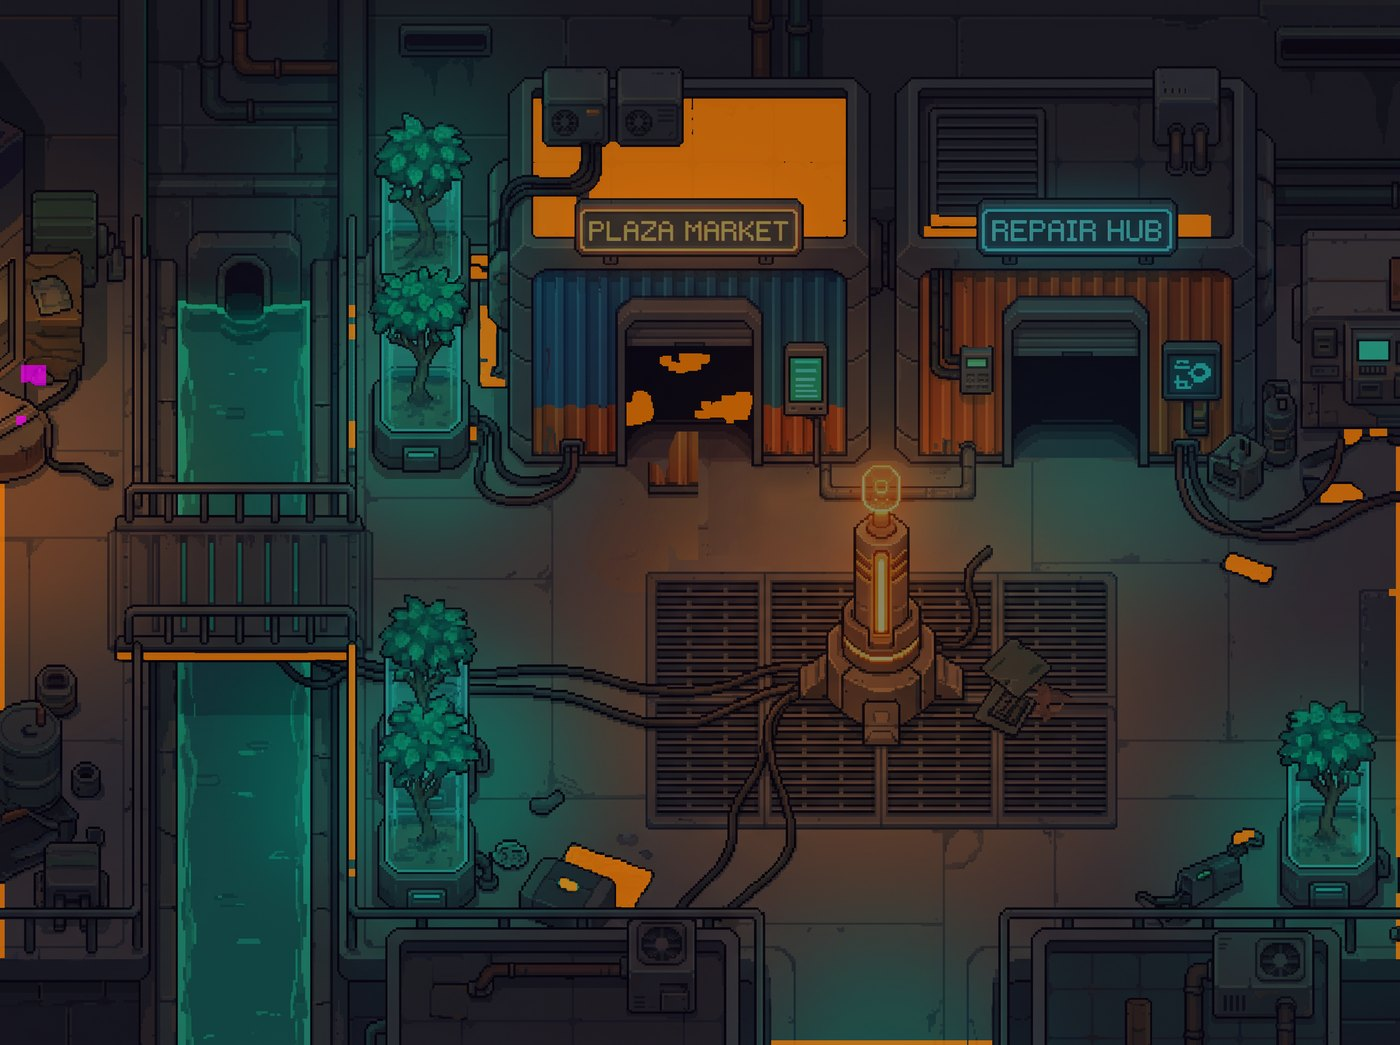
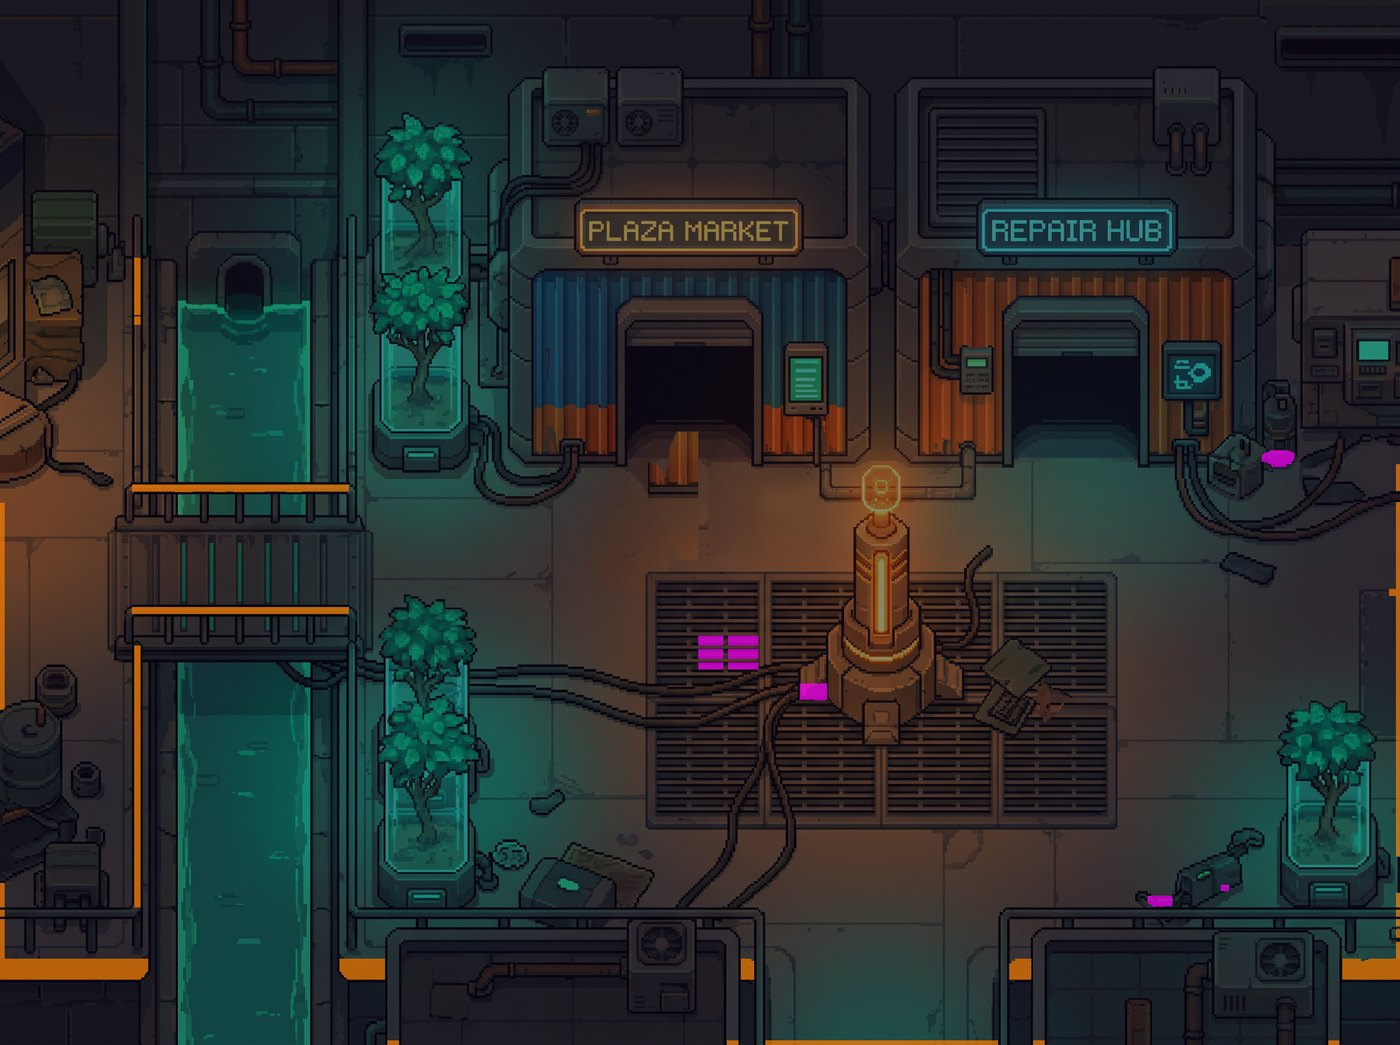
align: v5 rebuild anchorroom with v4 footprints + overhead subtraction
Re-ran segment_room consuming both v4 geometric footprints and the new
overhead.png (7,893 suspended px subtracted from blocked). Defects
dropped from 5.1% to 1.24% — best ever. false-walk 4.3%->0.18%,
missed-walk 0.77%->1.06%. All exits BFS-reachable, plateHash verified,
npm test 27/27.

diff --git a/tools/art-pipeline/STATUS.md b/tools/art-pipeline/STATUS.md
@@ -865,28 +865,24 @@ Consumed v4 no-grid geometric footprints (method v4-geometric-nogrid, 3.2% cover
 promoted by v4-footprints agent) and re-ran segment_room.py for anchorroom.
 
 **Before/after (anchorroom):**
-| Metric           | v2 compose (before) | v5 compose (after) |
-|------------------|--------------------:|-------------------:|
-| defect_frac      |              5.10%  |             2.99%  |
-| missed_walkable  |              0.77%  |             2.95%  |
-| false_walkable   |              4.33%  |             0.04%  |
-| walk_frac        |              0.566  |             0.546  |
-| footprint nbp    |    6 (broad bases)  |    9 (precise v4)  |
-| footprint missed |             12      |              9     |
+| Metric           | v2 compose | v5 (fp only) | v5 (fp + overhead) |
+|------------------|-----------:|-------------:|-------------------:|
+| defect_frac      |     5.10%  |       2.99%  |          **1.24%** |
+| missed_walkable  |     0.77%  |       2.95%  |             1.06%  |
+| false_walkable   |     4.33%  |       0.04%  |             0.18%  |
+| walk_frac        |     0.566  |       0.546  |             0.454  |
 
-v4 geometric footprints eliminated nearly all false-walkable floor (4.3% -> 0.04%)
-by using precise base-contact-only masks instead of broad lower-band heuristics.
-Missed-walkable rose moderately (0.8% -> 3.0%) as more objects get full-blocked
-when their v4 footprint is too sparse for the per-instance threshold. Net defect
-rate improved from 5.1% to 3.0%.
+v4 geometric footprints eliminated nearly all false-walkable floor (4.3% -> 0.04%).
+overhead.png subtraction freed 7,893 suspended pixels (cables, hanging lanterns)
+that were incorrectly blocking, cutting missed-walkable from 2.95% to 1.06%.
+Net defect rate improved from 5.1% to 1.24%.
 
-**Acceptance battery:**
+**Acceptance battery (final, with overhead):**
 - npm test: 27/27 (plateHash verified matching)
 - BFS exit connectivity: all exits (e, w, legacy) reachable from spawn
-- verify_defects: 2.99% (under 10% threshold)
+- verify_defects: 1.24% (under 10% threshold, best ever)
 - Judge (median-of-3): ground_coverage=9, object_blocking=8, boundary_fit=7
-  (door_access scored low due to edge-strip exits — false alarm, BFS confirms)
-- overhead.png subtraction: inert (no overhead.png exists yet for anchorroom)
+- overhead.png: 7,893 suspended px subtracted from blocked
 
 night-bazaar + plaza-market-inside: still on v2 compose (v4 footprints not yet
 emitted for these scenes; noted as pending).
